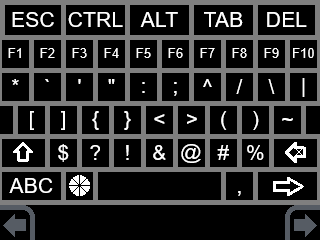
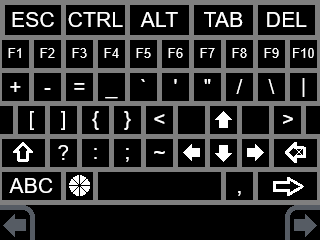
Replace duplicate special keys with missing keyboard keys Add logic for showing alternate number keys when shift is pressed

diff --git a/src/input/n3ds/keycode_map.hpp b/src/input/n3ds/keycode_map.hpp
@@ -147,49 +147,49 @@ static std::map<int, keycode_info> default_keycodes{
 };
 
 static std::map<int, keycode_info> alt_keycodes{
-    {0, {0x1B, false}},      // VK_ESCAPE
-    {1, {CTRL_KC, false}},   // VK_CONTROL Left control
-    {2, {ALT_KC, false}},    // VK_ALT Left alt
-    {3, {0x09, false}},      // VK_TAB
-    {4, {0x2E, false}},      // VK_DELETE
-    {5, {0x70, false}},      // VK_F1
-    {6, {0x71, false}},      // VK_F2
-    {7, {0x72, false}},      // VK_F3
-    {8, {0x73, false}},      // VK_F4
-    {9, {0x74, false}},      // VK_F5
-    {10, {0x75, false}},     // VK_F6
-    {11, {0x76, false}},     // VK_F7
-    {12, {0x77, false}},     // VK_F8
-    {13, {0x78, false}},     // VK_F9
-    {14, {0x79, false}},     // VK_F10
-    {15, {0x6A, false}},     // VK_KPASTERISK
-    {16, {0xC0, false}},     // VK_GRAVE Note: can be ` OR ~
-    {17, {0xDE, false}},     // VK_APOSTROPHE Note: can be ' OR "
-    {18, {0xDE, true}},      // VK_APOSTROPHE Note: can be ' OR "
-    {19, {0xBA, true}},      // VK_SEMICOLON Note: can be ; or :
-    {20, {0xBA, false}},     // VK_SEMICOLON Note: can be ; or :
-    {21, {0x36, true}},      // VK_6 Note: use shift to make this char?
-    {22, {0xBF, false}},     // VK_SLASH Note: can be / or ?
-    {23, {0xDC, false}},     // VK_BACK_SLASH Note: can be \ or |
-    {24, {0xDC, true}},      // VK_BACK_SLASH Note: can be \ or |
-    {25, {0xDB, false}},     // VK_BRACELEFT Note: can be [ or {
-    {26, {0xDD, false}},     // VK_BRACERIGHT Note: can be ] or }
-    {27, {0xDB, true}},      // VK_BRACELEFT Note: can be [ or {
-    {28, {0xDD, true}},      // VK_BRACERIGHT Note: can be ] or }
-    {29, {0xBC, true}},      // VK_OEM_102 Note: can be , or <
-    {30, {0xBE, true}},      // VK_OEM_102 Note: can be . or >
-    {31, {0x39, true}},      // VK_9 Note: can be 9 or (
-    {32, {0x30, true}},      // VK_0 Note: can be 0 or )
-    {33, {0xC0, true}},      // VK_GRAVE Note: can be ` OR ~
-    {34, {SHIFT_KC, false}}, // VK_SHIFT Left shift
-    {35, {0x34, true}},      // VK_4 Note: can be 4 OR $
-    {36, {0xBF, true}},      // VK_SLASH Note: can be / or ?
-    {37, {0x31, true}},      // VK_1 Note: can be 1 OR !
-    {38, {0x37, true}},      // VK_7 Note: can be 7 OR &
-    {39, {0x32, true}},      // VK_2 Note: can be 2 OR @
-    {40, {0x33, true}},      // VK_3 Note: can be 3 or #
-    {41, {0x35, true}},      // VK_5 Note: can be 5 or %
-    {42, {0x08, false}},     // VK_BACK_SPACE
+    {0, {0x1B, false}},    // VK_ESCAPE
+    {1, {CTRL_KC, false}}, // VK_CONTROL Left control
+    {2, {ALT_KC, false}},  // VK_ALT Left alt
+    {3, {0x09, false}},    // VK_TAB
+    {4, {0x2E, false}},    // VK_DELETE
+    {5, {0x70, false}},    // VK_F1
+    {6, {0x71, false}},    // VK_F2
+    {7, {0x72, false}},    // VK_F3
+    {8, {0x73, false}},    // VK_F4
+    {9, {0x74, false}},    // VK_F5
+    {10, {0x75, false}},   // VK_F6
+    {11, {0x76, false}},   // VK_F7
+    {12, {0x77, false}},   // VK_F8
+    {13, {0x78, false}},   // VK_F9
+    {14, {0x79, false}},   // VK_F10
+    {15, {0xBB, true}},    // VK_EQUALS Note: can be = OR +
+    {16, {0xBD, false}},   // VK_MINUS Note: can be - OR _
+    {17, {0xBB, false}},   // VK_EQUALS Note: can be = OR +
+    {18, {0xBD, true}},    // VK_MINUS Note: can be - OR _
+    {19, {0xC0, false}},   // VK_GRAVE Note: can be ` OR ~
+    {20, {0xDE, false}},   // VK_APOSTROPHE Note: can be ' OR "
+    {21, {0xDE, true}},    // VK_APOSTROPHE Note: can be ' OR "
+    {22, {0xBF, false}},   // VK_SLASH Note: can be / or ?
+    {23, {0xDC, false}},   // VK_BACK_SLASH Note: can be \ or |
+    {24, {0xDC, true}},    // VK_BACK_SLASH Note: can be \ or |
+    {25, {0xDB, false}},   // VK_BRACELEFT Note: can be [ or {
+    {26, {0xDD, false}},   // VK_BRACERIGHT Note: can be ] or }
+    {27, {0xDB, true}},    // VK_BRACELEFT Note: can be [ or {
+    {28, {0xDD, true}},    // VK_BRACERIGHT Note: can be ] or }
+    {29, {0xBC, true}},    // VK_OEM_102 Note: can be , or <
+    {30, {-1, false}},
+    {31, {0x26, false}}, // VK_UP
+    {32, {-1, false}},
+    {33, {0xBE, true}},                // VK_OEM_102 Note: can be . or >
+    {34, {SHIFT_KC, false}},           // VK_SHIFT Left shift
+    {35, {0xBF, true}},                // VK_SLASH Note: can be / or ?
+    {36, {0xBA, true}},                // VK_SEMICOLON Note: can be ; or :
+    {37, {0xBA, false}},               // VK_SEMICOLON Note: can be ; or :
+    {38, {0xC0, true}},                // VK_GRAVE Note: can be ` OR ~
+    {39, {0x25, false}},               // VK_LEFT
+    {40, {0x28, false}},               // VK_DOWN
+    {41, {0x27, false}},               // VK_RIGHT
+    {42, {0x08, false}},               // VK_BACK_SPACE
     {43, {KEYBOARD_SWITCH_KC, false}}, // Special key -- keyboard switch
     {44, {0x5B, false}},               // KEY_LEFTMETA
     {45, {0x20, false}},               // VK_SPACE

diff --git a/src/input/n3ds/KeyboardTouchHandler.cpp b/src/input/n3ds/KeyboardTouchHandler.cpp
@@ -21,6 +21,7 @@
 #include "keyboard_alt_bgr.h"
 #include "keyboard_bgr.h"
 #include "keyboard_lock_bgr.h"
+#include "keyboard_shift_bgr.h"
 #include "keyboard_temp_bgr.h"
 #include <Limelight.h>
 #include <cstring>
@@ -41,8 +42,6 @@ void KeyboardTouchHandler::set_screen(const uint8_t *bgr_buffer, int bgr_size) {
     gfxScreenSwapBuffers(GFX_BOTTOM, false);
 }
 
-// TODO: Add function to change a single key.
-// Changing the whole section doesn't work for the alt keyboard.
 void KeyboardTouchHandler::set_screen_key(KeyInfo &key_info) {
     u8 *gfxbtmadr = gfxGetFramebuffer(GFX_BOTTOM, GFX_LEFT, NULL, NULL);
 
@@ -54,8 +53,11 @@ void KeyboardTouchHandler::set_screen_key(KeyInfo &key_info) {
     case (KEY_LOCKED):
         bgr_buffer = keyboard_lock_bgr;
         break;
+    case (KEY_SHIFT):
+        bgr_buffer = keyboard_shift_bgr;
+        break;
     default:
-        bgr_buffer = keyboard_bgr;
+        bgr_buffer = alt_keyboard_active ? keyboard_alt_bgr : keyboard_bgr;
         break;
     }
 
@@ -69,6 +71,12 @@ void KeyboardTouchHandler::set_screen_key(KeyInfo &key_info) {
 
     gfxFlushBuffers();
     gfxScreenSwapBuffers(GFX_BOTTOM, false);
+}
+
+void KeyboardTouchHandler::set_shift_keys() {
+    shift_keys.state =
+        (shift_info.state != KEY_DISABLED) ? KEY_SHIFT : KEY_DISABLED;
+    set_screen_key(shift_keys);
 }
 
 void KeyboardTouchHandler::handle_default() {
@@ -145,6 +153,7 @@ void KeyboardTouchHandler::_handle_touch_down(touchPosition touch) {
     } else if (active_keycode.code > KEYBOARD_SWITCH_KC) {
         if (active_keycode.code == SHIFT_KC) {
             cycle_key_state(shift_info);
+            set_shift_keys();
         } else if (active_keycode.code == CTRL_KC) {
             cycle_key_state(ctrl_info);
         } else if (active_keycode.code == ALT_KC) {
@@ -168,6 +177,7 @@ void KeyboardTouchHandler::_handle_touch_up(touchPosition touch) {
         if (shift_info.state == KEY_TEMPORARY) {
             shift_info.state = KEY_DISABLED;
             set_screen_key(shift_info);
+            set_shift_keys();
         }
         if (ctrl_info.state == KEY_TEMPORARY) {
             ctrl_info.state = KEY_DISABLED;

diff --git a/src/input/n3ds/N3dsTouchscreenInput.hpp b/src/input/n3ds/N3dsTouchscreenInput.hpp
@@ -81,7 +81,7 @@ class MouseTouchHandler : public TouchHandlerBase {
     int previous_y = 0;
 };
 
-enum KeyState { KEY_DISABLED, KEY_TEMPORARY, KEY_LOCKED };
+enum KeyState { KEY_DISABLED, KEY_TEMPORARY, KEY_LOCKED, KEY_SHIFT };
 struct KeyInfo {
     KeyState state = KEY_DISABLED;
     int min_x;
@@ -102,6 +102,7 @@ class KeyboardTouchHandler : public TouchHandlerBase {
     keycode_info get_keycode(touchPosition touch);
     void set_screen(const uint8_t *bgr_buffer, int bgr_size);
     void set_screen_key(KeyInfo &key_info);
+    void set_shift_keys();
     void handle_default();
     void cycle_key_state(KeyInfo &key_info);
     void handle_alt_keyboard();
@@ -112,6 +113,7 @@ class KeyboardTouchHandler : public TouchHandlerBase {
     KeyInfo shift_info = {KEY_DISABLED, 0, 48, 136, 169};
     KeyInfo ctrl_info = {KEY_DISABLED, 64, 127, 0, 37};
     KeyInfo alt_info = {KEY_DISABLED, 128, 192, 0, 37};
+    KeyInfo shift_keys = {KEY_SHIFT, 0, GSP_SCREEN_HEIGHT_BOTTOM, 37, 70};
     bool alt_keyboard_active = false;
     std::map<int, keycode_info> *selected_keycodes = nullptr;
 };
